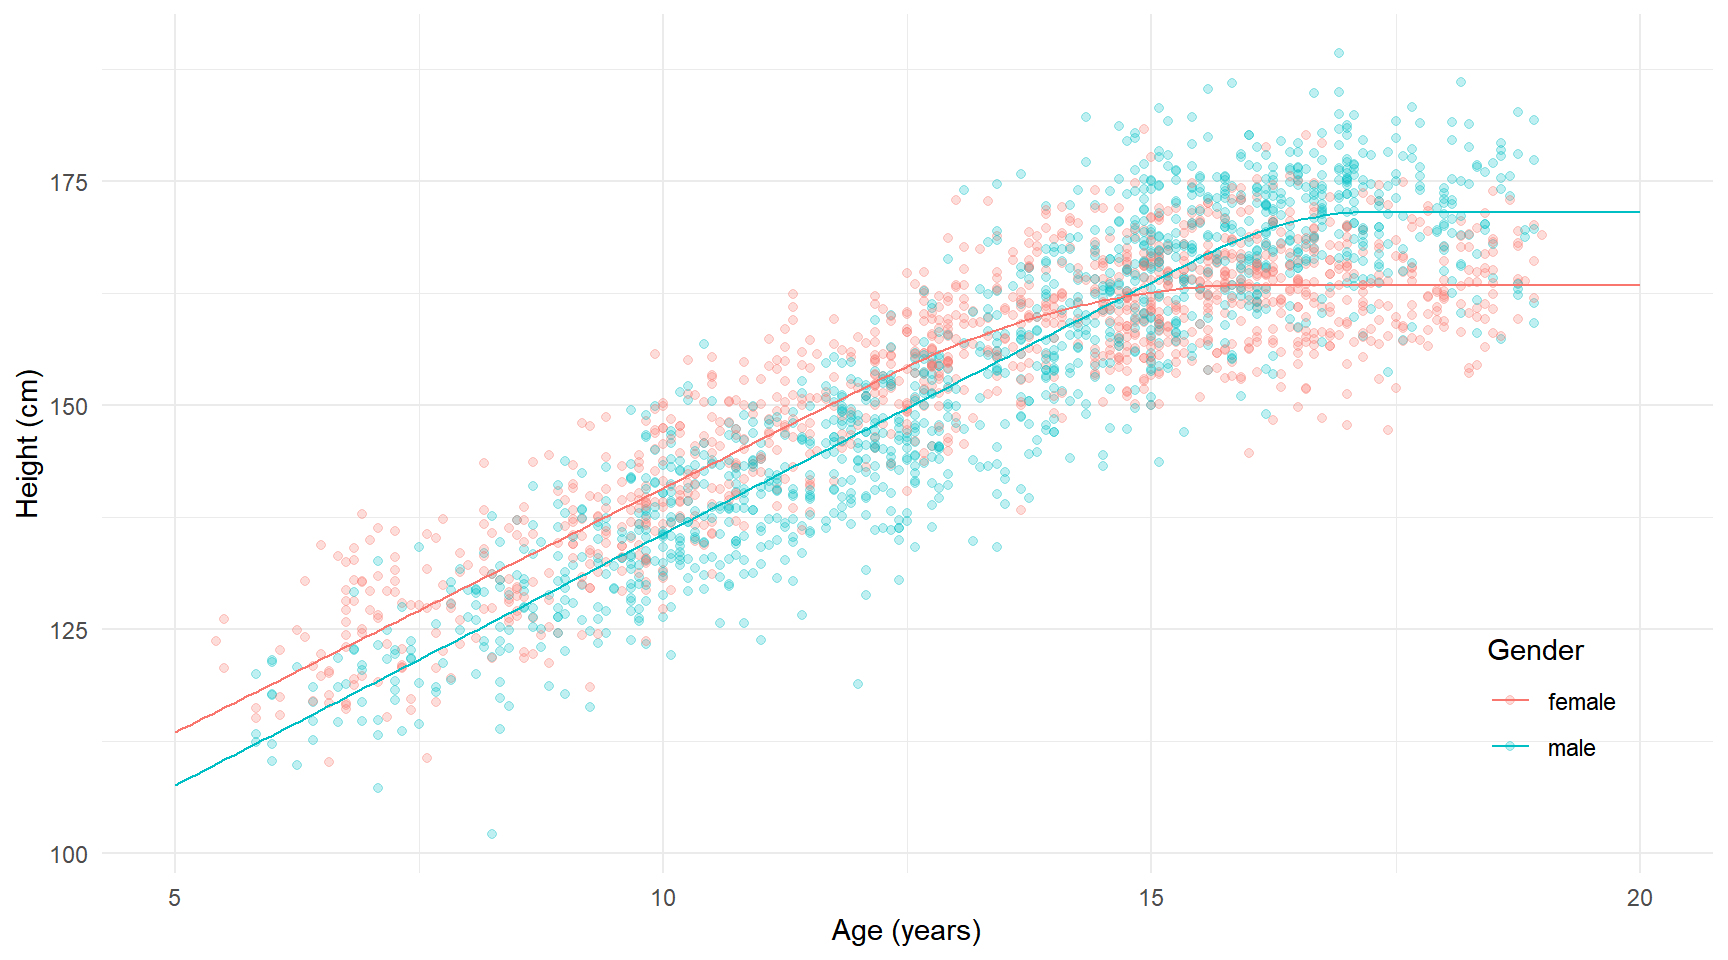
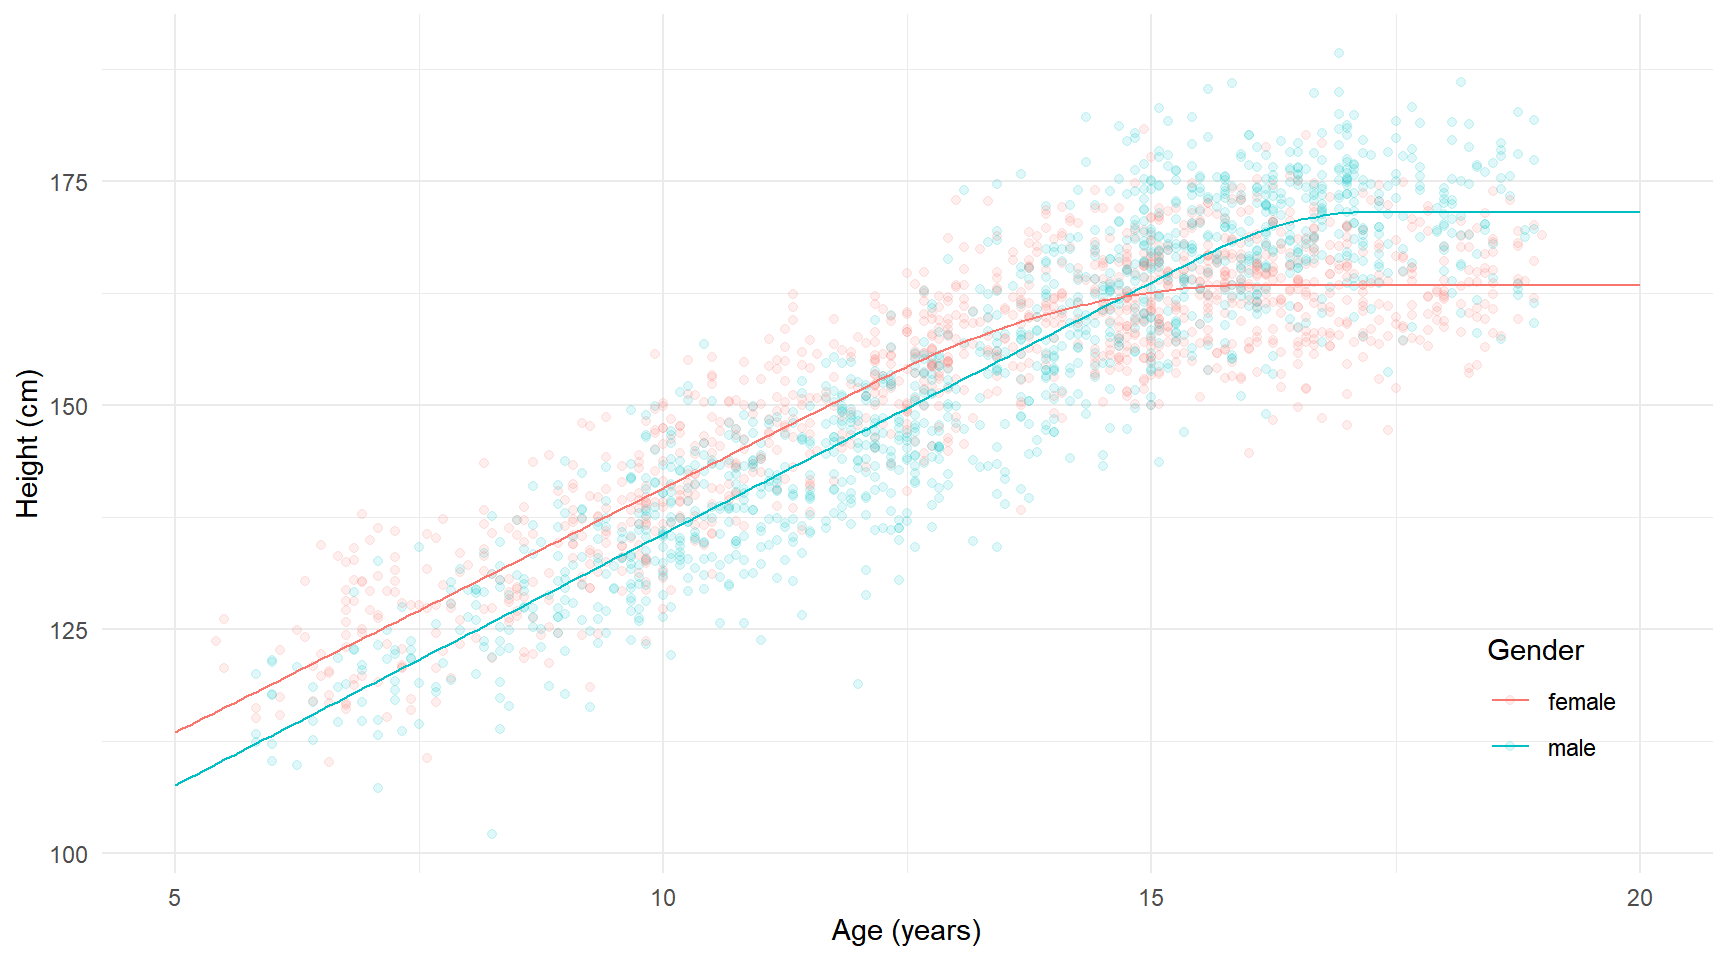
lecture 2/11 update

diff --git a/lecture-02-11-2022.html b/lecture-02-11-2022.html
@@ -647,7 +647,7 @@ gammaf   1.9069    0.43727   4.361  1.348e-05</code></pre>
 d$yhat &lt;- predict(m, newdata = d)
   
 p &lt;- ggplot(children, aes(x = age, y = height, color = sex)) + 
-  geom_point(alpha = 0.25) + theme_minimal() + 
+  geom_point(alpha = 0.125) + theme_minimal() + 
   geom_line(aes(y = yhat), data = d) + 
   labs(x = &quot;Age (years)&quot;, y = &quot;Height (cm)&quot;, color = &quot;Gender&quot;) +
   theme(legend.position = c(0.9,0.2))
